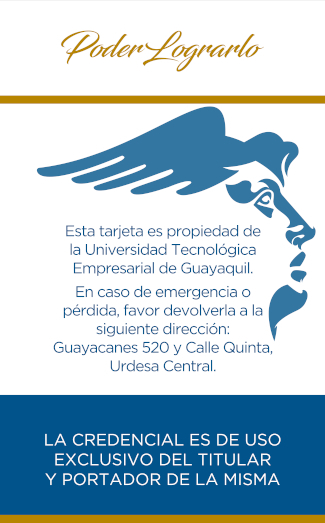
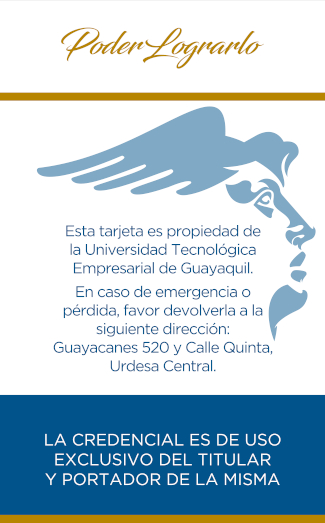
Se suben cambios para no mostrar modalidad en carnet

Changed region(s): [[0.0, 0.0306, 1.0, 0.6424]]

diff --git a/controllers/SiteController.php b/controllers/SiteController.php
@@ -720,7 +720,7 @@ class SiteController extends CController {
                 if(strlen($carrera) > 30){
                     $carrera = substr($carrera, 0, 31) . ".";
                 }
-                $modalidad = $dataCarrera['Modalidad']; // limite 30 caracteres
+                //$modalidad = $dataCarrera['Modalidad']; // limite 30 caracteres
                 $matricula = $modelEstudiante->est_matricula;
             }
 
@@ -763,7 +763,7 @@ class SiteController extends CController {
                 imagefttext($im1, $font_size, $angulo, $x, 390, $colorB, $ttf_light, $carrera);
             
             
-                // Get size of text
+                // Get size of text 
                 list($left, $bottom, $right, , , $top) = imageftbbox($font_size, $angulo, $ttf_light, $modalidad);
                 // Determine offset of text
                 $left_offset = ($right - $left) / 2;

diff --git a/views/perfil/credencial.php b/views/perfil/credencial.php
@@ -96,10 +96,13 @@ $qrCode
                                 <th><?= Yii::t('academico', 'Career') ?>:</th>
                                 <td><?= $carrera ?></td>
                             </tr>
+                            <?php /*
                             <tr>
                                 <th><?= Yii::t('formulario','Study mode') ?>:</th>
                                 <td><?= $modalidad ?></td>
                             </tr>
+                            */
+                            ?>
                             <tr>
                                 <th><?= Yii::t('formulario', 'Register') ?>:</th>
                                 <td><?= $matricula ?></td>

diff --git a/controllers/PerfilController.php b/controllers/PerfilController.php
@@ -486,7 +486,7 @@ class PerfilController extends \app\components\CController {
                     if(strlen($carrera) > 30){
                         $carrera = substr($carrera, 0, 31) . ".";
                     }
-                    $modalidad = $dataCarrera['Modalidad']; // limite 30 caracteres
+                    //$modalidad = $dataCarrera['Modalidad']; // limite 30 caracteres
                     $matricula = $modelEstudiante->est_matricula;
                 }
 
